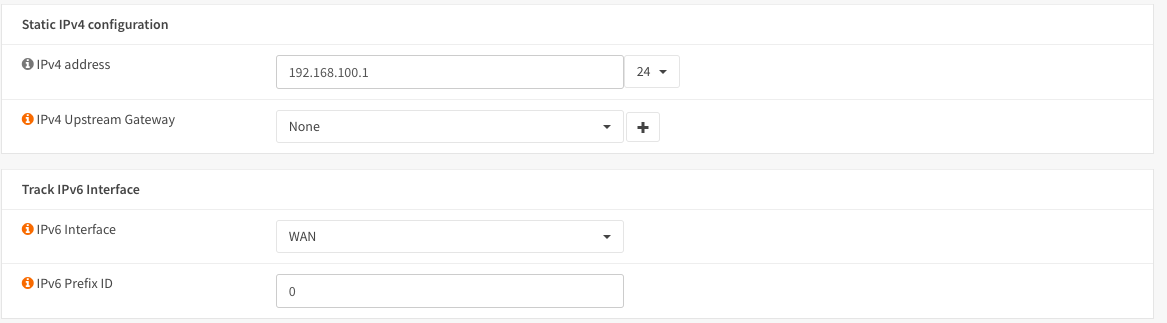
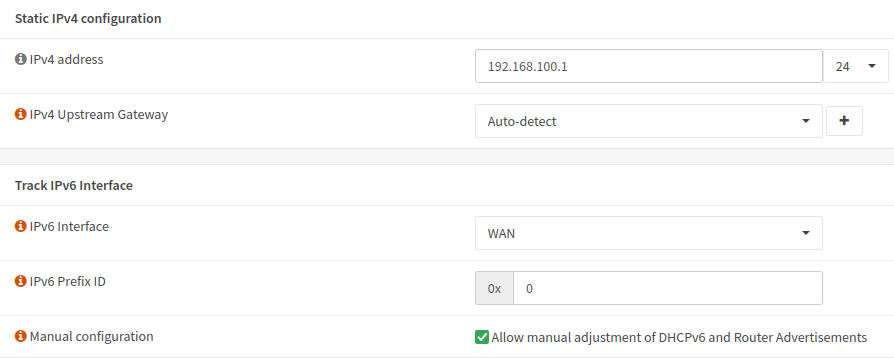
Update Orange France fiber with troubleshooting info and info from lafibre.info community

diff --git a/source/manual/how-tos/orange_fr_fttp.rst b/source/manual/how-tos/orange_fr_fttp.rst
@@ -1,4 +1,4 @@
-Orange France FTTP IPv4 & IPv6
+Orange France FTTH IPv4 & IPv6
 ==============================
 
 **Authors:** Kev Willers, David Néel
@@ -83,7 +83,12 @@ Orange require that the DHCP and DHCP6 requests are made with a VLAN-PCP of 6. T
 
 On the DHCP6 request we need to use raw options
 
-Firstly select 'Advanced' and set 'Use VLAN priority' to 'Internetwork Control (6)'
+Firstly select 'Basic' and tick 'Request only an IPv6 prefix' and set 'Prefix delegation size' to 56
+
+.. image:: images/OF_image5_1.png
+	:width: 100%
+
+Then select 'Advanced' and set 'Use VLAN priority' to 'Internetwork Control (6)'
 
 .. image:: images/OF_image5.png
 	:width: 100%
@@ -107,6 +112,13 @@ Finally set the Identity Association and Prefix interface as shown
 
 Click ‘Save’ and then ‘Apply’.
 
+Update IPv6 Gateway
+
+Select :menuselection:`System --> Gateway --> Single` and edit IPv6 gateway to add 'fe80::ba0:bab' as IP address
+
+.. image:: images/OF_image6_1.png
+	:width: 100%
+
 
 **LAN Interface**
 -----------------
@@ -121,6 +133,7 @@ Select :menuselection:`Interfaces --> [LAN]` and set IPv4 to “Static IPv4” a
 
 Finally, set the Track IPv6 Interface to WAN and set the IPv4 address to your chosen address.
 
+Tick 'Manual Configuration'
 
 .. image:: images/OF_image8.png
 	:width: 100%
@@ -135,3 +148,28 @@ Select :menuselection:`Services --> Router Advertisements` On the Lan interface 
 Click ‘Save’
 
 It is advisable at this point to reboot the system.
+
+
+**Troubleshooting**
+-------------------
+
+getting the option-90 chain from the Livebox
+--------------------------------------------
+
+Rarely, the authentication option from the generator doesn't work, you can instead use the one from the Livebox
+
+Plug the WAN interface of the Livebox in your network (green port)
+Use Wireshark on any other computer in the network and look for DHCP Discover packets
+
+.. image:: images/OF_image10.png
+	:width: 100%
+
+decode DHCP packets
+-------------------
+
+In this packet, look for Option: (90) Authentication
+
+.. image:: images/OF_image11.png
+	:width: 100%
+
+You can copy paste the full option without the first 2 bytes (5a 46) in your WAN configuration
